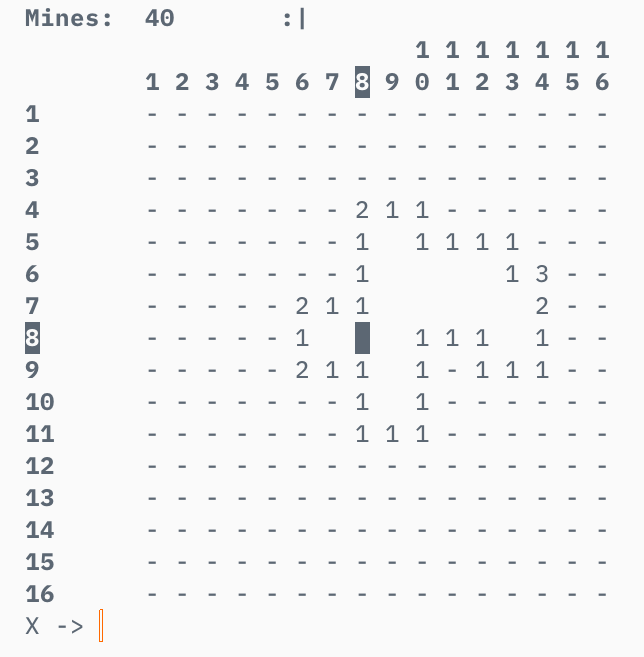
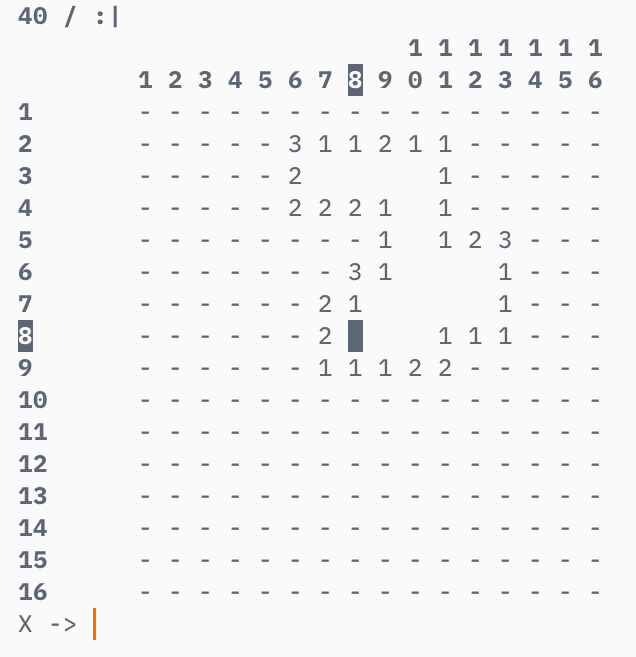
Enable arguments for custom games

diff --git a/minesweeper.cc b/minesweeper.cc
@@ -10,16 +10,16 @@ using std::cout;
 
 class Grid {
  public:
-  Grid();
+  Grid(int r, int c, int m);
 
  private:
   bool over = false, won = false, mines_created = false, first_display = true;
-  int board_size = 16, num_flags = 0, num_revealed = 0, num_mines = 40,
+  int rows = 16, cols = 16, num_flags = 0, num_revealed = 0, num_mines = 40,
       cursor_x = 0, cursor_y = 0;
   std::vector<std::vector<int>> board;
   void GameSequence();
   int Prompt();
-  int IntPrompt();
+  int IntPrompt(int limit);
   void Mines(bool protect);
   bool Reveal(int x, int y);
   inline void AddDigit(int &value, int digit, int add_value);
@@ -27,12 +27,30 @@ class Grid {
   void DisplayBoard();
 };
 
-int main() {
-  Grid game;
+int main(int argc, char *argv[]) {
+  int r = 16, c = 16, m = 40;
+  if (argc == 2) {
+    if (!strcmp(argv[1], "easy") || !strcmp(argv[1], "e")) r = c = 9, m = 10;
+    if (!strcmp(argv[1], "hard") || !strcmp(argv[1], "h")) c = 30, m = 99;
+  }
+  if (argc == 4) {
+    try {
+      r = std::stoi(argv[1]), c = std::stoi(argv[2]), m = std::stoi(argv[3]);
+      if ((r <= 0) || (c <= 0))
+        throw std::domain_error(std::string("Rows + Cols must be > 0"));
+      if (m >= (r * c - 9))
+        throw std::domain_error(std::string("Mines must be <= board size -9"));
+    } catch (const std::exception &e) {
+      std::cerr << e.what() << "\n";
+      return 0;
+    }
+  }
+  Grid game(r, c, m);
   return 0;
 }
 
-Grid::Grid() : board(board_size, std::vector<int>(board_size, 0)) {
+Grid::Grid(int r, int c, int m)
+    : rows(r), cols(c), num_mines(m), board(cols, std::vector<int>(rows, 0)) {
   while (!over) GameSequence();
 }
 
@@ -49,16 +67,15 @@ void Grid::GameSequence() {
              !(GetDigit(board[cursor_x][cursor_y], 2))) {
     over = Reveal(cursor_x, cursor_y);
   }
-  if (num_revealed == (board_size * board_size) - num_mines) over = won = true;
+  if (num_revealed == (cols * rows) - num_mines) over = won = true;
   if (over) DisplayBoard();
 }
 
 int Grid::Prompt() {
-  // Returns 0 - Flag, 1 - Reveal, 2 - Cancel
   for (int i = 1; i != -1; i--) {  // process cursor mode
     cout << (i ? "X" : "Y") << " -> ";
-    int response = IntPrompt() - 1;
-    if (response == -2) return 2;
+    int response = (i ? IntPrompt(cols) : IntPrompt(rows)) - 1;
+    if (response == -2) return 2;  // cancel return
     if (response >= 0) (i ? cursor_x : cursor_y) = response;
     DisplayBoard();
   }
@@ -66,10 +83,10 @@ int Grid::Prompt() {
   std::string action;
   std::getline(std::cin, action);
   if (action == "c") return 2;
-  return (action == "f" ? 0 : 1);
+  return (action == "f" ? 0 : 1);  // 0 - flag 1 - reveal
 }
 
-int Grid::IntPrompt() {
+int Grid::IntPrompt(int limit) {
   std::string line;
   int value;
   do {
@@ -77,12 +94,12 @@ int Grid::IntPrompt() {
     if (line == "c") return -1;   // cancelled int input
     if (line.empty()) return -2;  // repeated number
     try {
-      value = stoi(line);
+      value = std::stoi(line);
     } catch (...) {
       value = -1;
     }
-    if ((value < 1) || (value > board_size)) cout << "\033[F\033[5C\033[K";
-  } while ((value < 1) || (value > board_size));
+    if ((value < 1) || (value > limit)) cout << "\033[F\033[5C\033[K";
+  } while ((value < 1) || (value > limit));
   return value;
 }
 
@@ -90,8 +107,8 @@ void Grid::Mines(bool protect) {
   if (mines_created) return;
   mines_created = true;
   std::vector<std::pair<int, int>> p_locs;
-  for (int x = 0; x != board_size; x++) {
-    for (int y = 0; y != board_size; y++) {
+  for (int x = 0; x != cols; x++) {
+    for (int y = 0; y != rows; y++) {
       if (!((x >= cursor_x - 1) && (x <= cursor_x + 1) && (y >= cursor_y - 1) &&
             (y <= cursor_y + 1)))
         p_locs.emplace_back(x, y);
@@ -104,8 +121,8 @@ void Grid::Mines(bool protect) {
     AddDigit(board[x][y], 1, 1);
     for (int x_off = -1; x_off != 2; x_off++) {
       for (int y_off = -1; y_off != 2; y_off++) {
-        if ((x + x_off < board_size) && (x + x_off >= 0) &&
-            (y + y_off < board_size) && (y + y_off >= 0))
+        if ((x + x_off < cols) && (x + x_off >= 0) && (y + y_off < rows) &&
+            (y + y_off >= 0))
           AddDigit(board[x + x_off][y + y_off], 0, 1);
       }
     }
@@ -121,8 +138,8 @@ bool Grid::Reveal(int x, int y) {  // returns game over status
   if (((GetDigit(board[x][y], 0)) == 0)) {
     for (int x_off = -1; x_off != 2; x_off++) {
       for (int y_off = -1; y_off != 2; y_off++) {
-        if ((x + x_off < board_size) && (x + x_off >= 0) &&
-            (y + y_off < board_size) && (y + y_off >= 0)) {
+        if ((x + x_off < cols) && (x + x_off >= 0) && (y + y_off < rows) &&
+            (y + y_off >= 0)) {
           Reveal(x + x_off, y + y_off);
         }
       }
@@ -140,15 +157,15 @@ inline int Grid::GetDigit(const int &value, int digit) {
 }
 
 void Grid::DisplayBoard() {
-  int col_height = std::to_string(board_size).length();
+  int col_height = std::to_string(cols).length();
   if (!first_display)  // Redraw
-    cout << "\033[" + std::to_string(board_size + col_height + 2) + "F\033[J";
+    cout << "\033[" + std::to_string(rows + col_height + 2) + "F\033[J";
   if (first_display) first_display = false;
-  cout << "\033[1mMines:\t" << num_mines - num_flags;  // Header
-  cout << (won ? "\t:)" : (over ? "\t :(" : "\t :|")) << "\n";
+  cout << "\033[1m" << num_mines - num_flags << " / ";  // Header
+  cout << (won ? ":)" : (over ? ":(" : ":|")) << "\n";
   for (int s = col_height - 1; s != -1; s--) {  // Col Numbers
     cout << "\t";
-    for (int x = 1; x != board_size + 1; x++) {
+    for (int x = 1; x != cols + 1; x++) {
       if (x == cursor_x + 1) cout << "\033[7m";
       cout << (x >= pow(10, s) ? std::to_string(GetDigit(x, s))
                                : (x == cursor_x + 1 ? ("\033[0m ") : (" ")));
@@ -156,10 +173,10 @@ void Grid::DisplayBoard() {
     }
     cout << "\n";
   }
-  for (int y = 0; y != board_size; y++) {  // Row Numbers + Board
+  for (int y = 0; y != rows; y++) {  // Row Numbers + Board
     if (y == cursor_y) cout << "\033[7m";
     cout << "\033[1m" << y + 1 << "\033[0m\t";
-    for (int x = 0; x != board_size; x++) {
+    for (int x = 0; x != cols; x++) {
       if ((y == cursor_y) && (x == cursor_x)) cout << "\033[7m";  // highlight
       bool flag = GetDigit(board[x][y], 3), revealed = GetDigit(board[x][y], 2),
            mine = GetDigit(board[x][y], 1), non_zero = GetDigit(board[x][y], 0);

diff --git a/README.md b/README.md
@@ -4,12 +4,36 @@ A lighter version of a command line minesweeper [game](https://github.com/spinks
 
 Build with `make` run with `./game`.
 
+### Arguments
+
+The game now takes command line arguments allowing for custom games, or traditional difficulty levels:
+
+- Custom Game
+	- `./game rows cols mines`
+	- Where rows, cols, mines are ints
+	- rows > 0 && cols > 0
+	- mines <= (rows*cols) - 9
+- Difficulty levels
+	- `./game difficulty`
+	- Where difficulty is a string 
+	- **"easy"** or **"e"** for 9 by 9 grid with 10 mines
+	- **"hard"** or **"h"** for 30 by 16 grid with 99 mines
+	- **"int"** or **"i"** (or anything else as this is the fallback standard game) for 16 by 16 grid with 40 mines
+- Standard
+	- `./game`
+	- For 16 by 16 grid with 40 mines
+
 Requires C++11.
 
 ### Gameplay
 
-Move cursor around, and then enter action ('f' to flag,
-anything else to reveal (ie. enter, 'r', ect.)) At any point entering 'c' will
-cancel the current action.
+- You will first be prompted to move the x and y values of the cursor.
+	- An **int** will move the cursor to that column(x)/row(y)
+	- An **empty input (enter)** will keep the same column/row (allowing you to quickly move cursor in only one direction)
+	- A **'c'** will cancel the current action (if you mistyped one of the coordinates)
+- Then you will be prompted for an action
+	- A **'f'** will flag or un-flag the current cursor location
+	- A **'c'** will cancel the current action (returning to cursor movement)
+	- Anything else (**empty input (enter)**, 'r', etc.) will reveal the current square 
 
 <img src="./Images/display.png" title="gameplay" width="328" height="344">
